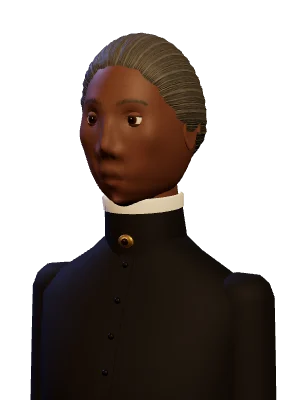
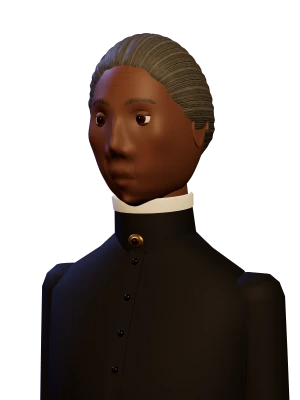
Films on the 3D screen in Safari and on iPhones; faces show at once, unstretched
- The screen copies each film frame through a canvas, which Safari and iPhones support; their direct
  video-to-3D path left the screen black.
- The reader tiles are part of the page, so their faces appear before the game loads, and they keep
  their proper shape again; smoother faces.

Claude-Session: https://claude.ai/code/session_01PkuFKm82efDRbwoWJvTvYb

Changed region(s): [[0.24, 0.06, 0.99, 1.0], [0.09, 0.63, 0.3, 1.0]]

diff --git a/cinema.js b/cinema.js
@@ -513,7 +513,8 @@ body:not(.playing) #cineHud,body.reading #cineHud{display:none}
   let fullVid = false;                                  // the film's own <video> fills the screen (from the 3D screen)
   let sysFull = false;                                  // ... in an iPhone's own player
   let texAt = -1, blindBrowser = false;                 // the frame last handed to the 3D screen; this browser can't paint films there
-  let probeC = null, probeAt = 0, probeT = -1, blank = 0;
+  let probeC = null, probeAt = 0, probeT = -1, blank = 0, dark = 0, darkSig = '';
+  let relayC = null, relayG = null;                     // the canvas each frame is drawn into for the 3D screen
   const now = () => performance.now();
   const shared = () => !!(ctx && ctx.shared && ctx.shared());
   const isHost = () => !ctx || !ctx.host || ctx.host();
@@ -581,7 +582,8 @@ body:not(.playing) #cineHud,body.reading #cineHud{display:none}
     video.addEventListener('loadedmetadata', mineEv(onMeta));
     video.addEventListener('error', mineEv(onErr));
     video.addEventListener('playing', mineEv(() => { F.frame = true; paint(); }));
-    video.addEventListener('seeked', mineEv(() => { F.frame = true; if (vtex) vtex.needsUpdate = true; wake(); }));
+    video.addEventListener('seeked', mineEv(() => { F.frame = true; relayFrame(); wake(); }));
+    video.addEventListener('resize', mineEv(() => { if (F.mode === 'tex' && relayC && (relayC.width < 3 || Math.abs(relayC.width / relayC.height - video.videoWidth / Math.max(1, video.videoHeight)) > 0.01)) { makeRelay(); relayFrame(); paint(); } }));
     video.addEventListener('waiting', mineEv(() => paint()));
     video.addEventListener('ended', mineEv(onEnded));
     // in the window or full screen, the player's own buttons work for the whole room; its sound is yours alone
@@ -609,9 +611,8 @@ body:not(.playing) #cineHud,body.reading #cineHud{display:none}
   function onMeta() {
     F.dur = isFinite(video.duration) ? video.duration : 0;
     if (F.cors && !blindBrowser) {
-      F.mode = 'tex'; texAt = -1; probeT = -1; blank = 0;
-      if (vtex) vtex.dispose();
-      vtex = new T.VideoTexture(video); vtex.colorSpace = T.SRGBColorSpace;
+      F.mode = 'tex'; probeT = -1; blank = 0; dark = 0; darkSig = '';
+      makeRelay();
     } else {
       F.mode = 'dom';                                    // the server won't share its pixels, or this browser can't paint them: a window
       if (!fullVid) {
@@ -636,6 +637,22 @@ body:not(.playing) #cineHud,body.reading #cineHud{display:none}
     if (video && !video.paused) { ours = now(); video.pause(); }
     if (isHost() && cur && cur.playing) setScreen({ playing: false, pos: 0 });
     paint();
+  }
+  /* --- the 3D screen shows each frame copied through a canvas. Safari (iPhone, iPad and Mac) plays these films and
+         draws them onto a canvas, but its direct video-to-WebGL path can leave the screen black. --- */
+  function makeRelay() {
+    const vw = video.videoWidth || 640, vh = video.videoHeight || 480, k = Math.min(1, 1024 / Math.max(vw, vh));
+    relayC = relayC || document.createElement('canvas');
+    relayC.width = Math.max(2, Math.round(vw * k)); relayC.height = Math.max(2, Math.round(vh * k));
+    relayG = relayC.getContext('2d', { alpha: false });
+    relayG.fillStyle = '#000'; relayG.fillRect(0, 0, relayC.width, relayC.height);
+    if (vtex) vtex.dispose();
+    vtex = new T.CanvasTexture(relayC); vtex.colorSpace = T.SRGBColorSpace; vtex.minFilter = T.LinearFilter; vtex.generateMipmaps = false;
+    texAt = -1;
+  }
+  function relayFrame() {
+    if (!vtex || !relayG || !video || video.readyState < 2) return;
+    try { relayG.drawImage(video, 0, 0, relayC.width, relayC.height); vtex.needsUpdate = true; texAt = video.currentTime; } catch (e) {}
   }
   function seekVideo(t) { if (!video || !isFinite(t)) return; ours = now(); try { video.currentTime = Math.max(0, F.dur ? Math.min(t, F.dur - 0.05) : t); } catch (e) {} }
   function playVideo() {
@@ -727,7 +744,13 @@ body:not(.playing) #cineHud,body.reading #cineHud{display:none}
       const d = g.getImageData(0, 0, 8, 8).data; ok = false;
       for (let i = 3; i < d.length; i += 4) if (d[i]) { ok = true; break; }   // even a black frame comes through opaque
     } catch (e) { ok = e && e.name === 'SecurityError' ? false : null; }
-    if (ok) { F.seen = true; blank = 0; }
+    if (ok) {
+      blank = 0;
+      const d = probeC.getContext('2d').getImageData(0, 0, 8, 8).data; let mx = 0, sig = '';
+      for (let i = 0; i < d.length; i += 4) { mx = Math.max(mx, d[i], d[i + 1], d[i + 2]); sig += d[i] + ','; }
+      if (mx >= 6 || (dark && sig !== darkSig)) { F.seen = true; dark = 0; return; }   // real pictures (even film grain in the dark moves)
+      darkSig = sig; if (++dark >= 6) blind();                                         // a browser handing over only black (~9 s)
+    }
     else if (ok === false && ++blank >= 2) blind();
   }
   function blind() {
@@ -1052,9 +1075,9 @@ body:not(.playing) #cineHud,body.reading #cineHud{display:none}
       const d = Math.hypot(cam.x, cam.y - PIC_Y, cam.z - SCR.z);
       const v = vol / (1 + Math.max(0, d - 6) * 0.15);
       if (Math.abs(video.volume - v) > 0.01) { sysAt = now(); video.volume = Math.max(0, Math.min(1, v)); }
-      // hand the screen each new frame: three.js waits for requestVideoFrameCallback, which browsers may never call
-      // for a video they think nobody sees (ours is hidden; the 3D screen shows it)
-      if (vtex && video.readyState >= 2 && video.currentTime !== texAt) { texAt = video.currentTime; vtex.needsUpdate = true; }
+      // copy each new frame to the screen ourselves (no waiting on requestVideoFrameCallback, which browsers may
+      // never call for a video they think nobody sees: ours is hidden, the 3D screen shows it)
+      if (video.currentTime !== texAt) relayFrame();
     }
     if (A.lamp > 0.003) O.beamMat.uniforms.uT.value += dt;
     drive(false);
@@ -1130,7 +1153,7 @@ body:not(.playing) #cineHud,body.reading #cineHud{display:none}
   }
   // for tests: run the animations to their ends now
   function settle(n) { for (let i = 0; i < (n || 160); i++) step(0.05); pose(); return { k: A.k, lift: A.lift, lid: A.lid, lamp: A.lamp }; }
-  function state() { return { beam: O.beam && { on: O.beam.visible, verts: O.beam.geometry.attributes.position ? O.beam.geometry.attributes.position.count : 0, uO: O.beamMat.uniforms.uO.value }, cur, mode: F && F.mode, kind: F && F.kind, frame: F && F.frame, dur: F && F.dur, watching, viewOpen, url: F && F.url, time: localTime(), k: A.k, lift: A.lift, lamp: A.lamp, dim: A.dim, exposure: ctx && ctx.renderer.toneMappingExposure, video: !!video, paused: video ? video.paused : null, muted: effMuted(), elMuted: video ? video.muted : null, full: fullVid, blind: !!(F && F.blind), texAt }; }
+  function state() { return { beam: O.beam && { on: O.beam.visible, verts: O.beam.geometry.attributes.position ? O.beam.geometry.attributes.position.count : 0, uO: O.beamMat.uniforms.uO.value }, cur, mode: F && F.mode, kind: F && F.kind, frame: F && F.frame, dur: F && F.dur, watching, viewOpen, url: F && F.url, time: localTime(), k: A.k, lift: A.lift, lamp: A.lamp, dim: A.dim, exposure: ctx && ctx.renderer.toneMappingExposure, video: !!video, paused: video ? video.paused : null, muted: effMuted(), elMuted: video ? video.muted : null, full: fullVid, blind: !!(F && F.blind), texAt, relay: relayC ? relayC.width + 'x' + relayC.height : null }; }
 
   const hasFilm = () => !!(cur && cur.src);
   return { FILMS, init, sanitize, applyOp, sync, acts, label, open, settle, state, ytId, pickables, fullscreen, toggleMute, hasFilm };

diff --git a/index.html b/index.html
@@ -69,7 +69,7 @@ body:not(.playing) #tools,body.reading #tools,body.reading #home,body.reading #b
 .who.locked .n{color:var(--dim)}
 .who.locked .y{color:var(--gold2)}
 .who{position:relative;border:1px solid var(--line);border-radius:14px;background:rgba(26,18,10,.85);padding:0 0 8px;overflow:hidden;text-align:center;min-height:44px}
-.who img,.who .ph{display:block;width:100%;aspect-ratio:3/4;object-fit:cover;background:radial-gradient(circle at 50% 35%,#4a3018,#1a120a 75%)}
+.who img,.who .ph{display:block;width:100%;height:auto;aspect-ratio:3/4;object-fit:cover;background:radial-gradient(circle at 50% 35%,#4a3018,#1a120a 75%)}
 .who .n{display:block;font-weight:800;font-size:13px;margin-top:6px;color:var(--ink);line-height:1.15;padding:0 4px}
 .who .y{display:block;font-size:11px;color:var(--dim);margin-top:2px}
 .who[aria-pressed="true"]{border-color:var(--gold);box-shadow:0 0 0 2px var(--gold) inset,0 6px 20px rgba(232,176,75,.2)}
@@ -280,7 +280,18 @@ body.arranging #arrange{display:flex}
   <div class="epi">“From that moment, I understood the pathway from slavery to freedom.”<b>FREDERICK DOUGLASS, <i>NARRATIVE</i>, 1845, CHAPTER VI</b></div>
   <div class="invite-note" id="invNote" hidden></div>
   <div class="pick-h">Who walks in?</div>
-  <div id="who" role="group" aria-label="Choose who you read as"></div>
+  <!-- the readers, in the page itself so their faces show before any script runs (main.js buildWho gives them their state;
+       the pictures are drawn by tools/library-portraits.js) -->
+  <div id="who" role="group" aria-label="Choose who you read as">
+    <button type="button" class="who" data-id="douglass" aria-pressed="true" title="Learned to read in Baltimore against his enslaver&#x27;s orders; wrote three autobiographies."><img alt="" src="portraits/douglass.webp"><span class="n">Frederick Douglass</span><span class="y">1818–1895</span></button>
+    <button type="button" class="who" data-id="wheatley" aria-pressed="false" title="Brought to Boston from West Africa as a child, she could read the Bible within sixteen months; published Poems on Various Subjects in 1773."><img alt="" src="portraits/wheatley.webp"><span class="n">Phillis Wheatley</span><span class="y">c. 1753–1784</span></button>
+    <button type="button" class="who" data-id="bailey" aria-pressed="false" title="Frederick Douglass&#x27;s mother, a Maryland field hand who walked twelve miles at night to see him; he learned after her death that she could read."><img alt="" src="portraits/bailey.webp"><span class="n">Harriet Bailey</span><span class="y">c. 1792–1825</span></button>
+    <button type="button" class="who" data-id="jacobs" aria-pressed="false" title="Taught to read as a girl; hid nearly seven years in a crawlspace in her grandmother&#x27;s house, then wrote Incidents in the Life of a Slave Girl."><img alt="" src="portraits/jacobs.webp"><span class="n">Harriet Jacobs</span><span class="y">c. 1813–1897</span></button>
+    <button type="button" class="who" data-id="wells" aria-pressed="false" title="Born enslaved in Mississippi; journalist who documented lynching."><img alt="" src="portraits/wells.webp"><span class="n">Ida B. Wells</span><span class="y">1862–1931</span></button>
+    <button type="button" class="who" data-id="washington" aria-pressed="false" title="Born enslaved in Virginia; learned to read while working in salt furnaces and a coal mine, walked much of the way to Hampton, and founded Tuskegee."><img alt="" src="portraits/washington.webp"><span class="n">Booker T. Washington</span><span class="y">1856–1915</span></button>
+    <button type="button" class="who" data-id="dubois" aria-pressed="false" title="Historian and sociologist; wrote The Souls of Black Folk."><img alt="" src="portraits/dubois.webp"><span class="n">W. E. B. Du Bois</span><span class="y">1868–1963</span></button>
+    <button type="button" class="who locked" data-id="malcolm" aria-pressed="false"><img alt="" src="portraits/malcolm.webp"><span class="q" aria-hidden="true">?</span><span class="n">Hidden</span><span class="y">0/10 books · 0/1 read</span></button>
+  </div>
   <div class="row2">
     <div class="field"><label for="nm">Name</label><input id="nm" maxlength="14" autocomplete="off" spellcheck="false"></div>
     <button class="big" id="go" type="button">Enter the library</button>

diff --git a/main.js b/main.js
@@ -1406,27 +1406,37 @@
 
   /* ---------------- title screen ---------------- */
   function buildWho() {
-    const box = $('#who'); box.innerHTML = '';
+    const box = $('#who');
     if (S.me.avatar === 'malcolm' && !malcolmOpen()) S.me.avatar = 'douglass';
     if (!AV.LIST.some(p => p.id === S.me.avatar)) S.me.avatar = AV.LIST[0].id;
+    // the tiles are in index.html, so the faces show before any script runs; here each gets its state, in AV.LIST's order
+    const have = new Map([...box.querySelectorAll('.who[data-id]')].map(b => [b.dataset.id, b]));
+    have.forEach((b, id) => { if (!AV.LIST.some(p => p.id === id)) b.remove(); });
+    const pr = malcolmProgress();
     AV.LIST.forEach(p => {
-      const b = document.createElement('button'); b.type = 'button'; b.className = 'who';
-      const locked = p.id === 'malcolm' && !malcolmOpen(), pr = malcolmProgress();
-      b.setAttribute('aria-pressed', S.me.avatar === p.id ? 'true' : 'false');
+      let b = have.get(p.id);
+      if (!b) { b = document.createElement('button'); b.type = 'button'; b.className = 'who'; b.dataset.id = p.id; b.innerHTML = `<img alt="" src="portraits/${p.id}.webp"><span class="n"></span><span class="y"></span>`; }
+      box.appendChild(b);
       // a hidden reader until you meet them: a dark figure, no name, and how far you are from meeting them
+      const locked = p.id === 'malcolm' && !malcolmOpen();
+      b.classList.toggle('locked', locked);
+      b.setAttribute('aria-pressed', S.me.avatar === p.id ? 'true' : 'false');
       b.title = locked ? `Someone is waiting to be met. Take down ten books (${Math.min(pr.taken, 10)} so far) and read one to the end (${Math.min(pr.done, 1)} of 1).` : p.line;
-      if (locked) b.classList.add('locked');
-      const img = `<img alt="" src="portraits/${p.id}.webp" width="300" height="400" decoding="async" data-id="${p.id}">`;
-      b.innerHTML = locked ? `${img}<span class="q" aria-hidden="true">?</span><span class="n">Hidden</span><span class="y">${Math.min(pr.taken, 10)}/10 books · ${Math.min(pr.done, 1)}/1 read</span>`
-        : `${img}<span class="n">${esc(p.name)}</span><span class="y">${esc(p.years)}</span>`;
+      let q = b.querySelector('.q');
+      if (locked && !q) { q = document.createElement('span'); q.className = 'q'; q.setAttribute('aria-hidden', 'true'); q.textContent = '?'; b.querySelector('img').after(q); }
+      if (!locked && q) q.remove();
+      b.querySelector('.n').textContent = locked ? 'Hidden' : p.name;
+      b.querySelector('.y').textContent = locked ? `${Math.min(pr.taken, 10)}/10 books · ${Math.min(pr.done, 1)}/1 read` : p.years;
       b.onclick = () => {
-        if (locked) { toast('Someone is waiting to be met. Take down ten books and read one of them to the end.', 4200); return; }
+        if (b.classList.contains('locked')) { toast('Someone is waiting to be met. Take down ten books and read one of them to the end.', 4200); return; }
         S.me.avatar = p.id; box.querySelectorAll('.who').forEach(x => x.setAttribute('aria-pressed', 'false')); b.setAttribute('aria-pressed', 'true');
       };
-      box.appendChild(b);
+      // a missing picture is drawn here instead, after the page is up
+      const im = b.querySelector('img');
+      const redraw = () => { if (S.gl) setTimeout(() => { try { im.src = AV.portrait(renderer, p.id); } catch (e) {} }, 50); };
+      if (im.complete && im.naturalWidth === 0 && im.getAttribute('src')) redraw();
+      else im.onerror = () => { im.onerror = null; redraw(); };
     });
-    // a missing picture is drawn here instead, one at a time, after the page is up
-    box.querySelectorAll('img[data-id]').forEach(im => { im.onerror = () => { im.onerror = null; if (S.gl) setTimeout(() => { try { im.src = AV.portrait(renderer, im.dataset.id); } catch (e) {} }, 50); }; });
   }
   function enter() {
     const nm = $('#nm').value.trim().slice(0, 14) || defaultName();
